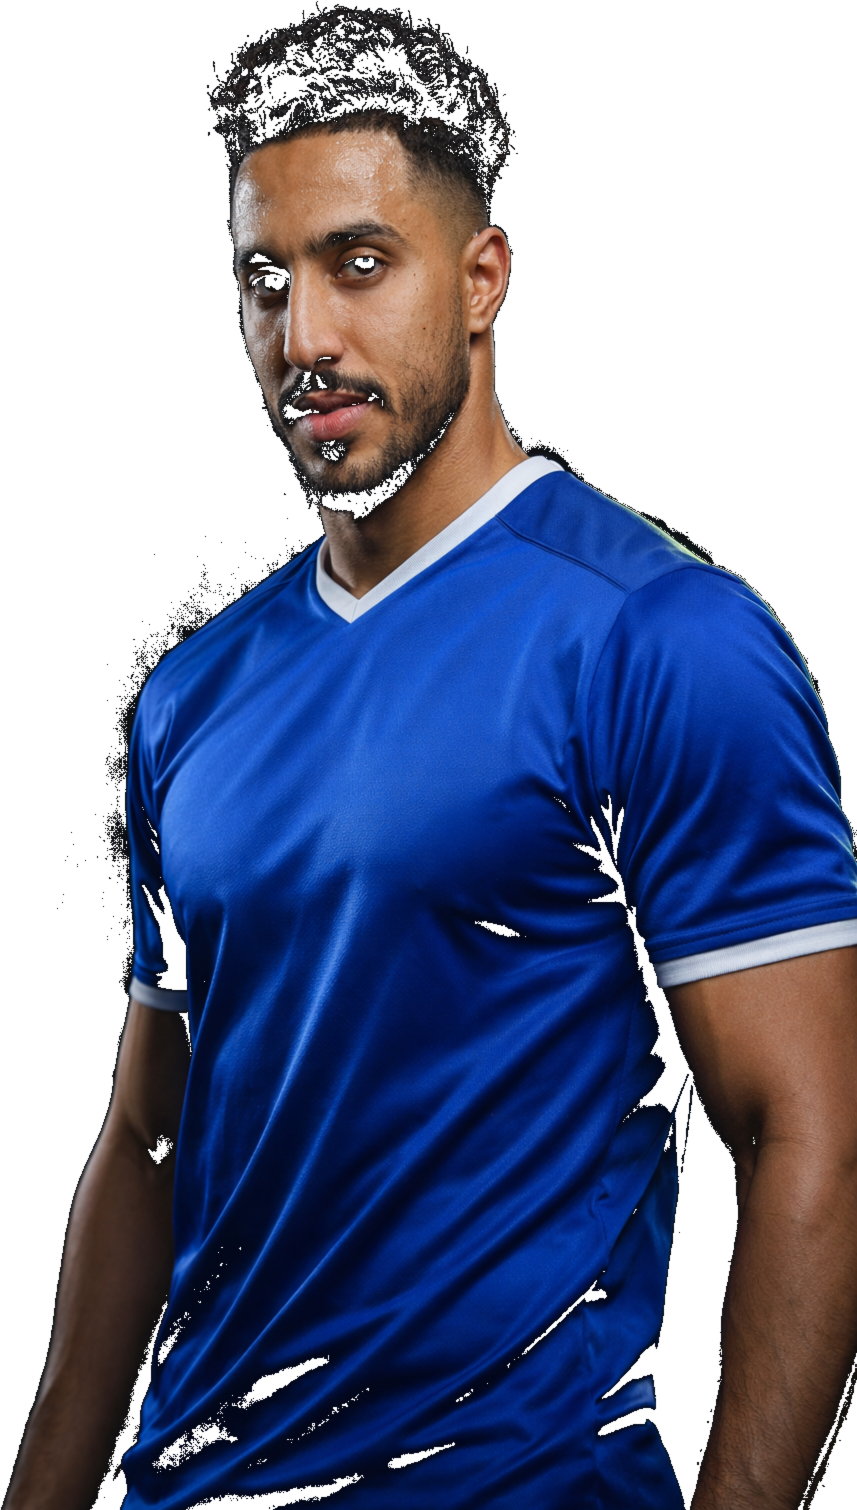
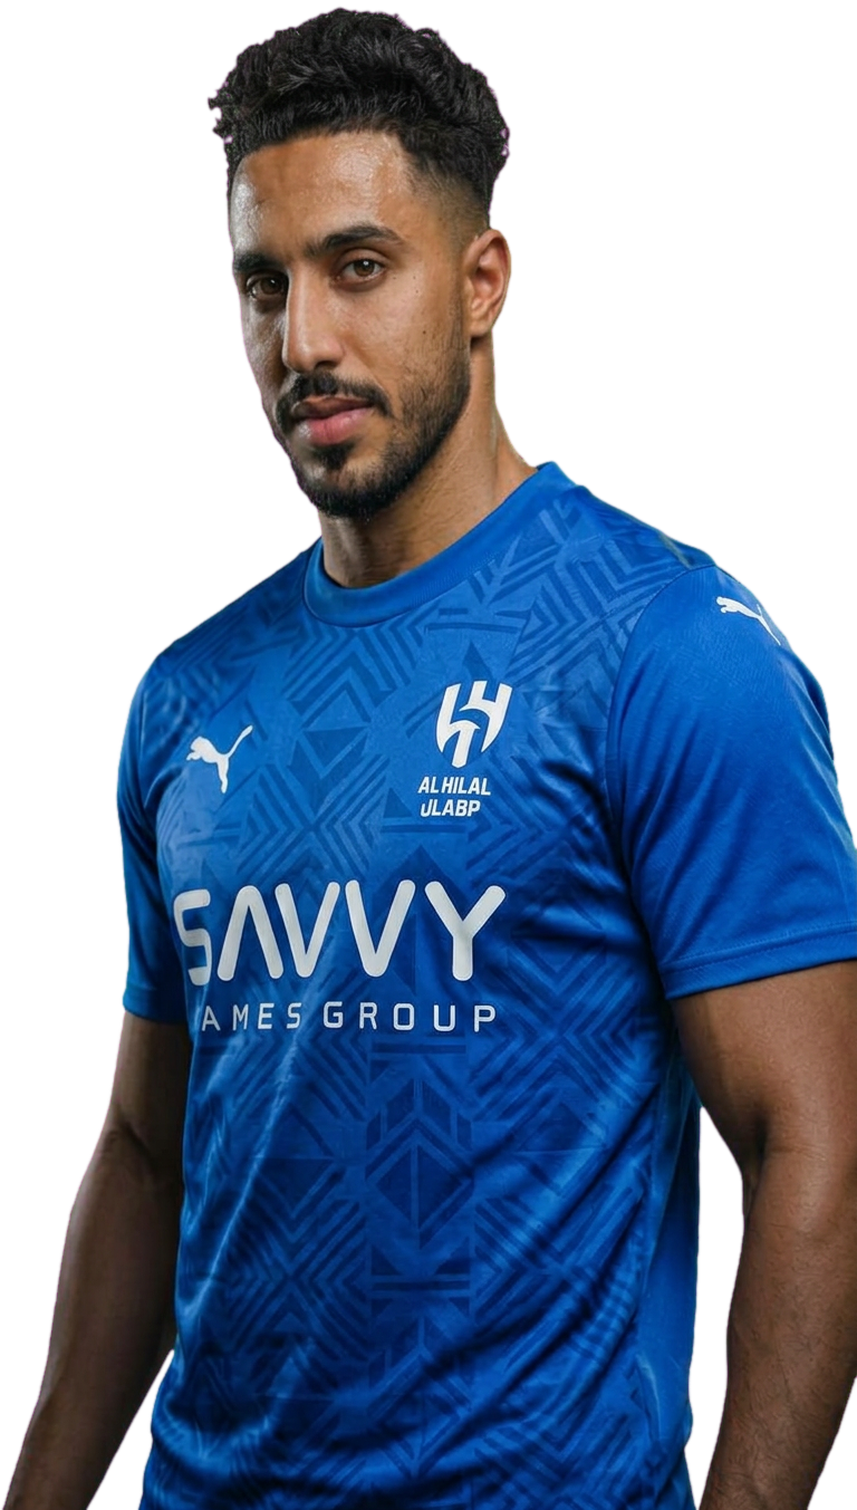
تذاكر البطولات: إلباس 7 لاعبين مربوطين قمصان أنديتهم الرسمية 25-26
بنفس منهج الجولات السابقة (توليد تحريري يثبّت هوية القصّة على شاشة
خضراء ← مفتاح لوني + despill + رفع ضرب مسبق ← defringe بحلقة شبه
الشفافية ← إطار الملف الأصلي)، ودون أي تغيير خارج الزي:

- الدوري الفرنسي: صورة أمين غويري بطقم أولمبيك مارسيليا (أبيض، ياقة
  بولو سماوية، CMA CGM، نمط شارات تاريخية منقوشة).
- الدوري الألماني: مايكل أوليسيه بطقم بايرن ميونخ (أحمر بحرف M أبيض
  باهت موجي، طوق وأطراف بيضاء، شعار T-Mobile).
- الدوري الإيطالي: باولو ديبالا بطقم روما (عنابي Legacy Burgundy
  بخطوط وبايب ذهبية برتقالية، بلا راعٍ أمامي هذا الموسم).
- الدوري المصري: إمام عاشور بطقم الأهلي (أحمر بخطوط دقيقة، طوق أبيض،
  بايب ذهبية، راعي e&)، وعبد الله السعيد بطقم الزمالك (أبيض بالحزام
  الأحمر/الأسود الأفقي على الصدر، شعار الرامي).
- الدوري السعودي: جواو فيليكس بطقم النصر (أصفر Impact بتشعّب شمسي،
  تفاصيل كحلية، راعي KAFD)، وسالم الدوسري بطقم الهلال (أزرق ملكي
  بزخارف العمارة النجدية، راعي Savvy Games Group).

README: قسم جديد يوثّق الصور السبع المربوطة وتعديلات قمصانها.

الفحوص: npm test 487/0 + بناء كامل ونشر بنجاح + حارس شرائح القمم
الخمسة 5/5 + معاينة بصرية للتذاكر الخمس بعد التحديث.

diff --git a/images/players/README.md b/images/players/README.md
@@ -65,3 +65,19 @@
 > كل الصور المخزّنة أعلاه مولّدة من مراجع صور حقيقية ومعتمدة من صاحب المشروع،
 > والزوايا الأربع شفافة (ألفا 0) — جاهزة للتركيب على التذاكر بنفس نمط
 > `league-ticket-player` عند تحديد المواضع.
+
+## 🎫 صور مربوطة على التذاكر — أُلبست القمصان الرسمية 25-26
+
+سبع صور مربوطة فعلياً على شرائح التذاكر عُدّلت قمصانها إلى الرسمية 25-26
+(بنفس منهج المخزّنة: شاشة خضراء + مفتاح لوني + defringe، دون تغيير أي
+شيء سوى الزي):
+
+| الملف | اللاعب | التذكرة | النادي |
+|---|---|---|---|
+| `fra-gouiri.png` | أمين غويري | الدوري الفرنسي | أولمبيك مارسيليا — أبيض بياقة بولو سماوية وCMA CGM |
+| `ger-olise.png` | مايكل أوليسيه | الدوري الألماني | بايرن ميونخ — أحمر بحرف M الأبيض وأطراف بيضاء |
+| `ita-dybala.png` | باولو ديبالا | الدوري الإيطالي | روما — عنابي بخطوط ذهبية برتقالية بلا راعٍ |
+| `egy-ashour.png` | إمام عاشور | الدوري المصري | الأهلي — أحمر بطوق أبيض وبايب ذهبية وراعي e& |
+| `egy-elsaid.png` | عبد الله السعيد | الدوري المصري | الزمالك — أبيض بالحزام الأحمر الأفقي على الصدر |
+| `sau-felix.png` | جواو فيليكس | الدوري السعودي | النصر — أصفر بتفاصيل كحلية وراعي KAFD |
+| `sau-dawsari.png` | سالم الدوسري | الدوري السعودي | الهلال — أزرق ملكي بزخارف نجدية وراعي Savvy |
